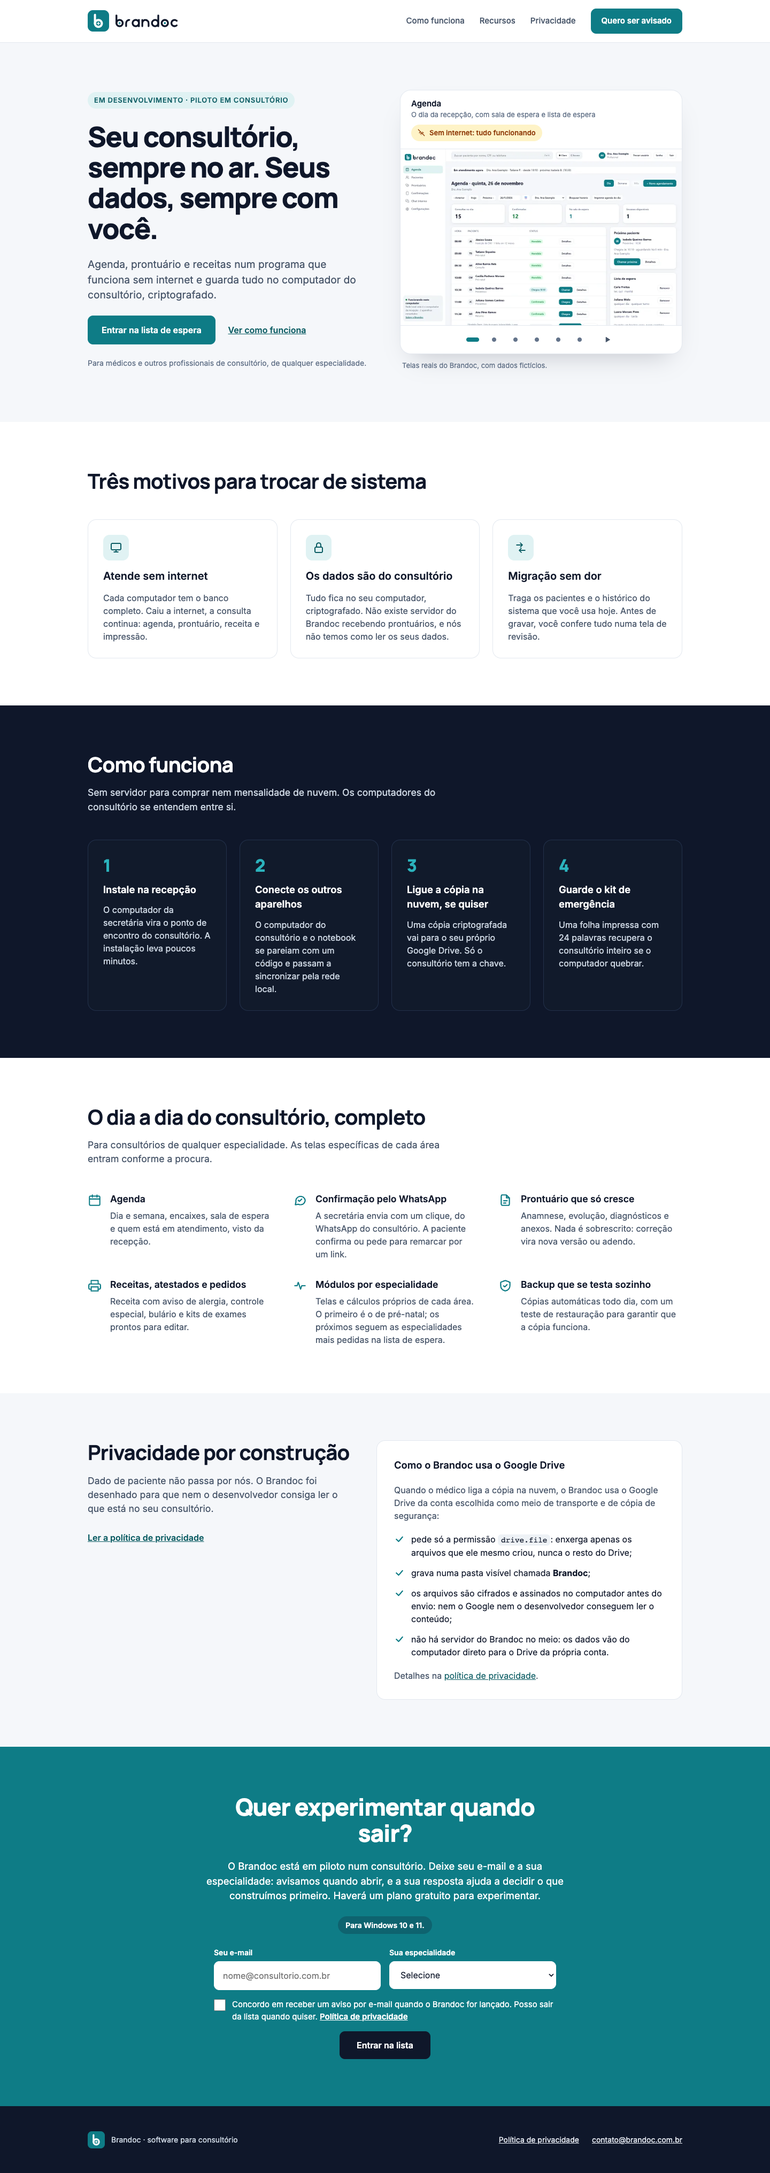
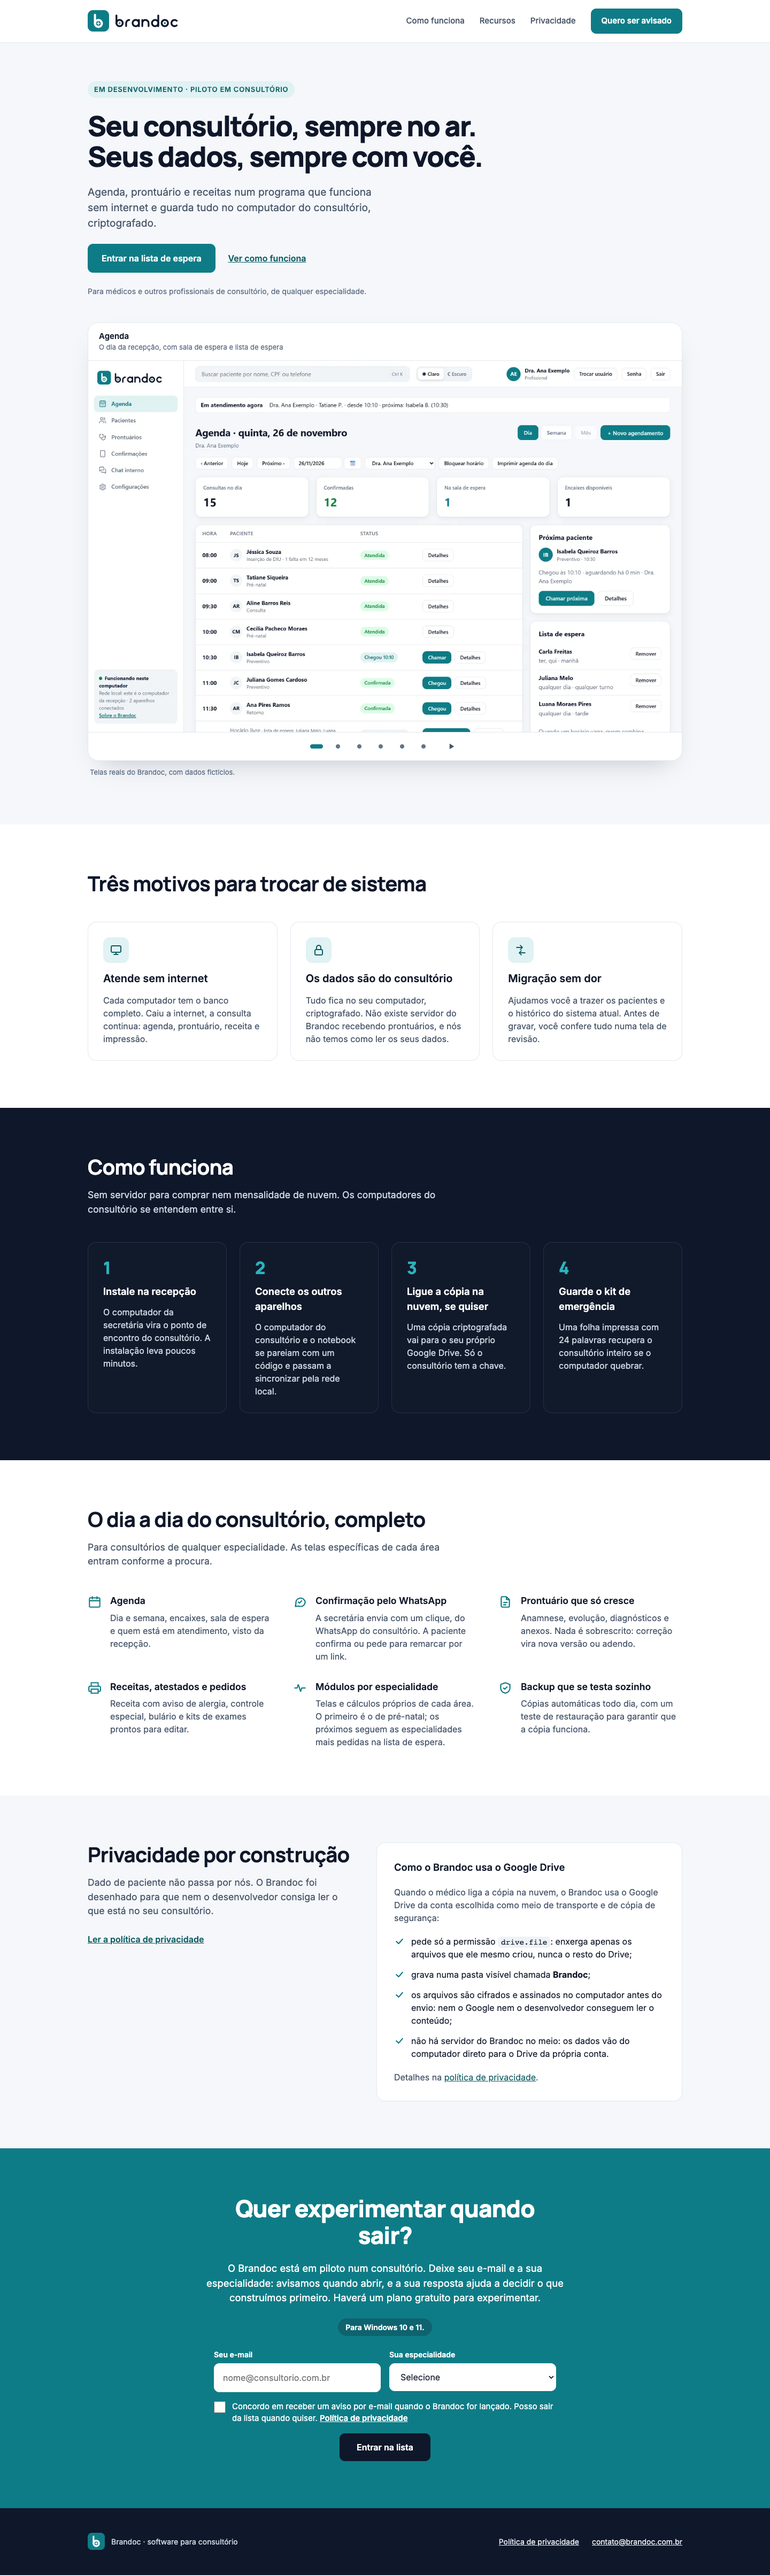
Telas do carrossel na largura da página e sem o selo de internet
A pedido do Rodrigo: ao lado do texto as telas ficavam com ~37% do tamanho e
ilegíveis; agora ocupam até 1112 px, com versão 2240 px para alta densidade.

diff --git a/publico/index.html b/publico/index.html
@@ -67,35 +67,31 @@
             <span class="carrossel-titulo" data-titulo>Agenda</span>
             <span class="carrossel-legenda" data-legenda>O dia da recepção, com sala de espera e lista de espera</span>
           </div>
-          <span class="selo-offline">
-            <svg width="14" height="14" viewBox="0 0 24 24" fill="none" stroke="currentColor" stroke-width="2.4" stroke-linecap="round" aria-hidden="true"><path d="M2 2l20 20M8.5 16.5a5 5 0 0 1 7 0M5 13a10 10 0 0 1 3.3-2.2M19 13a10 10 0 0 0-4-2.5M12 20h.01"/></svg>
-            Sem internet: tudo funcionando
-          </span>
         </div>
         <div class="carrossel-telas">
           <picture class="tela ativa" data-titulo="Agenda" data-legenda="O dia da recepção, com sala de espera e lista de espera">
-            <source media="(prefers-color-scheme: dark)" srcset="/telas/agenda-escuro-720.webp 720w, /telas/agenda-escuro-1440.webp 1440w" sizes="(min-width: 1160px) 528px, (min-width: 1056px) 46vw, calc(100vw - 50px)">
-            <img src="/telas/agenda-720.webp" srcset="/telas/agenda-720.webp 720w, /telas/agenda-1440.webp 1440w" sizes="(min-width: 1160px) 528px, (min-width: 1056px) 46vw, calc(100vw - 50px)" width="1440" height="900" alt="Tela da agenda do Brandoc" fetchpriority="high">
+            <source media="(prefers-color-scheme: dark)" srcset="/telas/agenda-escuro-720.webp 720w, /telas/agenda-escuro-1440.webp 1440w, /telas/agenda-escuro-2240.webp 2240w" sizes="(min-width: 1160px) 1112px, calc(100vw - 50px)">
+            <img src="/telas/agenda-720.webp" srcset="/telas/agenda-720.webp 720w, /telas/agenda-1440.webp 1440w, /telas/agenda-2240.webp 2240w" sizes="(min-width: 1160px) 1112px, calc(100vw - 50px)" width="1440" height="900" alt="Tela da agenda do Brandoc" fetchpriority="high">
           </picture>
           <picture class="tela" data-titulo="Prontuário" data-legenda="Anamnese, exame físico, alergias e alertas">
-            <source media="(prefers-color-scheme: dark)" srcset="/telas/prontuario-escuro-720.webp 720w, /telas/prontuario-escuro-1440.webp 1440w" sizes="(min-width: 1160px) 528px, (min-width: 1056px) 46vw, calc(100vw - 50px)">
-            <img src="/telas/prontuario-720.webp" srcset="/telas/prontuario-720.webp 720w, /telas/prontuario-1440.webp 1440w" sizes="(min-width: 1160px) 528px, (min-width: 1056px) 46vw, calc(100vw - 50px)" width="1440" height="900" alt="Tela do prontuário do Brandoc" loading="lazy">
+            <source media="(prefers-color-scheme: dark)" srcset="/telas/prontuario-escuro-720.webp 720w, /telas/prontuario-escuro-1440.webp 1440w, /telas/prontuario-escuro-2240.webp 2240w" sizes="(min-width: 1160px) 1112px, calc(100vw - 50px)">
+            <img src="/telas/prontuario-720.webp" srcset="/telas/prontuario-720.webp 720w, /telas/prontuario-1440.webp 1440w, /telas/prontuario-2240.webp 2240w" sizes="(min-width: 1160px) 1112px, calc(100vw - 50px)" width="1440" height="900" alt="Tela do prontuário do Brandoc" loading="lazy">
           </picture>
           <picture class="tela" data-titulo="Receita" data-legenda="A folha impressa, com o cabeçalho do consultório">
-            <source media="(prefers-color-scheme: dark)" srcset="/telas/receita-escuro-720.webp 720w, /telas/receita-escuro-1440.webp 1440w" sizes="(min-width: 1160px) 528px, (min-width: 1056px) 46vw, calc(100vw - 50px)">
-            <img src="/telas/receita-720.webp" srcset="/telas/receita-720.webp 720w, /telas/receita-1440.webp 1440w" sizes="(min-width: 1160px) 528px, (min-width: 1056px) 46vw, calc(100vw - 50px)" width="1440" height="900" alt="Receita impressa pelo Brandoc" loading="lazy">
+            <source media="(prefers-color-scheme: dark)" srcset="/telas/receita-escuro-720.webp 720w, /telas/receita-escuro-1440.webp 1440w, /telas/receita-escuro-2240.webp 2240w" sizes="(min-width: 1160px) 1112px, calc(100vw - 50px)">
+            <img src="/telas/receita-720.webp" srcset="/telas/receita-720.webp 720w, /telas/receita-1440.webp 1440w, /telas/receita-2240.webp 2240w" sizes="(min-width: 1160px) 1112px, calc(100vw - 50px)" width="1440" height="900" alt="Receita impressa pelo Brandoc" loading="lazy">
           </picture>
           <picture class="tela" data-titulo="Pedido de exames" data-legenda="Kits prontos e catálogo de exames">
-            <source media="(prefers-color-scheme: dark)" srcset="/telas/pedido-de-exames-escuro-720.webp 720w, /telas/pedido-de-exames-escuro-1440.webp 1440w" sizes="(min-width: 1160px) 528px, (min-width: 1056px) 46vw, calc(100vw - 50px)">
-            <img src="/telas/pedido-de-exames-720.webp" srcset="/telas/pedido-de-exames-720.webp 720w, /telas/pedido-de-exames-1440.webp 1440w" sizes="(min-width: 1160px) 528px, (min-width: 1056px) 46vw, calc(100vw - 50px)" width="1440" height="900" alt="Tela do pedido de exames do Brandoc" loading="lazy">
+            <source media="(prefers-color-scheme: dark)" srcset="/telas/pedido-de-exames-escuro-720.webp 720w, /telas/pedido-de-exames-escuro-1440.webp 1440w, /telas/pedido-de-exames-escuro-2240.webp 2240w" sizes="(min-width: 1160px) 1112px, calc(100vw - 50px)">
+            <img src="/telas/pedido-de-exames-720.webp" srcset="/telas/pedido-de-exames-720.webp 720w, /telas/pedido-de-exames-1440.webp 1440w, /telas/pedido-de-exames-2240.webp 2240w" sizes="(min-width: 1160px) 1112px, calc(100vw - 50px)" width="1440" height="900" alt="Tela do pedido de exames do Brandoc" loading="lazy">
           </picture>
           <picture class="tela" data-titulo="Pré-natal" data-legenda="Idade gestacional, medidas e curva de ganho de peso">
-            <source media="(prefers-color-scheme: dark)" srcset="/telas/pre-natal-escuro-720.webp 720w, /telas/pre-natal-escuro-1440.webp 1440w" sizes="(min-width: 1160px) 528px, (min-width: 1056px) 46vw, calc(100vw - 50px)">
-            <img src="/telas/pre-natal-720.webp" srcset="/telas/pre-natal-720.webp 720w, /telas/pre-natal-1440.webp 1440w" sizes="(min-width: 1160px) 528px, (min-width: 1056px) 46vw, calc(100vw - 50px)" width="1440" height="900" alt="Tela de pré-natal do Brandoc" loading="lazy">
+            <source media="(prefers-color-scheme: dark)" srcset="/telas/pre-natal-escuro-720.webp 720w, /telas/pre-natal-escuro-1440.webp 1440w, /telas/pre-natal-escuro-2240.webp 2240w" sizes="(min-width: 1160px) 1112px, calc(100vw - 50px)">
+            <img src="/telas/pre-natal-720.webp" srcset="/telas/pre-natal-720.webp 720w, /telas/pre-natal-1440.webp 1440w, /telas/pre-natal-2240.webp 2240w" sizes="(min-width: 1160px) 1112px, calc(100vw - 50px)" width="1440" height="900" alt="Tela de pré-natal do Brandoc" loading="lazy">
           </picture>
           <picture class="tela" data-titulo="Confirmações" data-legenda="Confirmação de consultas pelo WhatsApp">
-            <source media="(prefers-color-scheme: dark)" srcset="/telas/confirmacoes-escuro-720.webp 720w, /telas/confirmacoes-escuro-1440.webp 1440w" sizes="(min-width: 1160px) 528px, (min-width: 1056px) 46vw, calc(100vw - 50px)">
-            <img src="/telas/confirmacoes-720.webp" srcset="/telas/confirmacoes-720.webp 720w, /telas/confirmacoes-1440.webp 1440w" sizes="(min-width: 1160px) 528px, (min-width: 1056px) 46vw, calc(100vw - 50px)" width="1440" height="900" alt="Tela de confirmações pelo WhatsApp do Brandoc" loading="lazy">
+            <source media="(prefers-color-scheme: dark)" srcset="/telas/confirmacoes-escuro-720.webp 720w, /telas/confirmacoes-escuro-1440.webp 1440w, /telas/confirmacoes-escuro-2240.webp 2240w" sizes="(min-width: 1160px) 1112px, calc(100vw - 50px)">
+            <img src="/telas/confirmacoes-720.webp" srcset="/telas/confirmacoes-720.webp 720w, /telas/confirmacoes-1440.webp 1440w, /telas/confirmacoes-2240.webp 2240w" sizes="(min-width: 1160px) 1112px, calc(100vw - 50px)" width="1440" height="900" alt="Tela de confirmações pelo WhatsApp do Brandoc" loading="lazy">
           </picture>
         </div>
         <div class="carrossel-pontos" data-pontos></div>

diff --git a/publico/estilo.css b/publico/estilo.css
@@ -135,11 +135,11 @@ code { background: var(--codigo-fundo); padding: 2px 6px; border-radius: 6px; fo
 /* Herói */
 .heroi { background: var(--fundo-alt); }
 .heroi-faixa {
-  padding-top: 88px; padding-bottom: 96px;
-  display: flex; flex-wrap: wrap; align-items: center; gap: 56px;
+  padding-top: 72px; padding-bottom: 88px;
+  display: flex; flex-wrap: wrap; align-items: flex-start; gap: 48px;
 }
-.heroi-texto { flex: 1 1 460px; min-width: 0; display: flex; flex-direction: column; gap: 24px; }
-.heroi-telas { flex: 1 1 460px; min-width: 0; }
+.heroi-texto { flex: 1 1 100%; max-width: 50rem; min-width: 0; display: flex; flex-direction: column; gap: 24px; }
+.heroi-telas { flex: 1 1 100%; min-width: 0; } /* largura toda: as telas precisam ser legíveis */
 .selo-estado {
   align-self: flex-start; font-size: 13px; font-weight: 600; letter-spacing: 0.06em; text-transform: uppercase;
   color: var(--chip-texto); background: var(--chip-fundo); padding: 6px 12px; border-radius: 999px;
@@ -163,10 +163,6 @@ h1 { font-weight: 800; font-size: clamp(2.2rem, 4.4vw, 3.25rem); line-height: 1.
 .carrossel-rotulo { display: flex; flex-direction: column; min-width: 0; }
 .carrossel-titulo { font-weight: 600; font-size: 15px; }
 .carrossel-legenda { font-size: 13px; color: var(--texto-3); }
-.selo-offline {
-  display: flex; align-items: center; gap: 8px; font-size: 13px; font-weight: 600;
-  color: #92400E; background: #FEF3C7; padding: 6px 12px; border-radius: 999px;
-}
 .carrossel-telas { position: relative; aspect-ratio: 1440 / 900; overflow: hidden; background: var(--fundo-alt); }
 .tela {
   position: absolute; inset: 0; opacity: 0; visibility: hidden;
